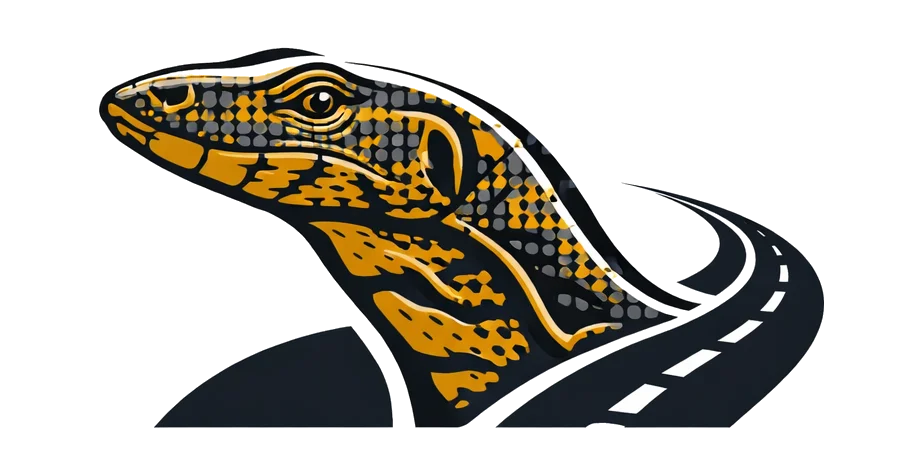
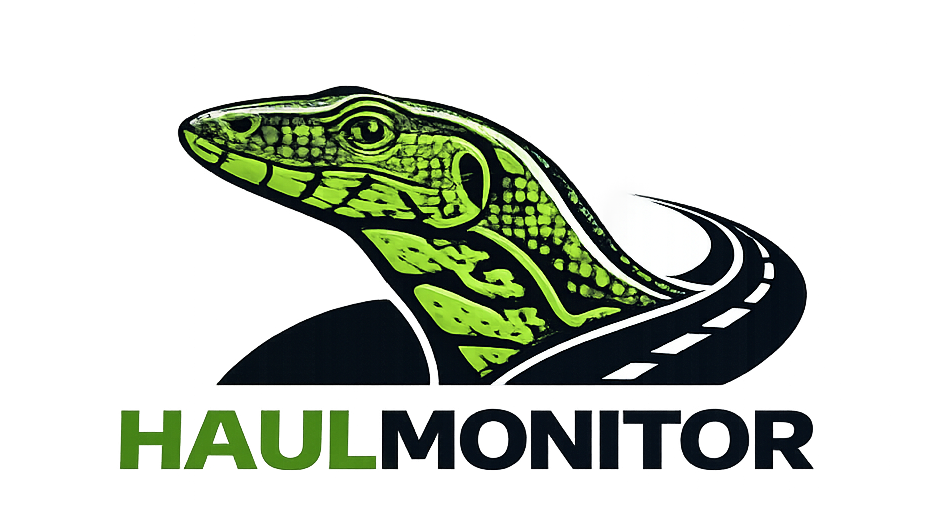
pcmiler NaN fix 3

diff --git a/src/components/HaulMonitorLogo.jsx b/src/components/HaulMonitorLogo.jsx
@@ -1,79 +1,24 @@
 export const HaulMonitorLogo = ({ size = 'medium', showText = true, variant = 'horizontal' }) => {
   const sizes = {
-    small: { img: 40, haul: 20, monitor: 20 },
-    medium: { img: 60, haul: 32, monitor: 32 },
-    large: { img: 80, haul: 48, monitor: 48 },
-    xlarge: { img: 100, haul: 64, monitor: 64 }
+    small: { img: 40 },
+    medium: { img: 60 },
+    large: { img: 80 },
+    xlarge: { img: 100 }
   };
 
   const currentSize = sizes[size] || sizes.medium;
 
-  // Brand colors matching the logo
-  const colors = {
-    haul: '#D89F38',      // Golden amber from monitor scales
-    monitor: '#2C3744'    // Charcoal from lizard body
-  };
-
-  // If variant is 'full', use the full logo PNG with text
-  if (variant === 'full') {
-    return (
-      <img 
-        src="/haul-monitor-full.png" 
-        alt="Haul Monitor"
-        style={{
-          height: `${currentSize.img * 1.2}px`,
-          width: 'auto',
-          objectFit: 'contain'
-        }}
-      />
-    );
-  }
-
+  // New logo already includes "HAULMONITOR" text, so all variants use the same image
   return (
-    <div style={{
-      display: 'flex',
-      alignItems: 'center',
-      gap: size === 'small' ? '8px' : '12px'
-    }}>
-      {/* Monitor Lizard Icon Only */}
-      <img 
-        src="/haul-monitor-icon.png" 
-        alt="Haul Monitor"
-        style={{
-          height: `${currentSize.img}px`,
-          width: 'auto',
-          objectFit: 'contain'
-        }}
-      />
-      
-      {/* Brand Text */}
-      {showText && (
-        <div style={{
-          display: 'flex',
-          alignItems: 'baseline',
-          gap: '4px'
-        }}>
-          <span style={{
-            fontSize: `${currentSize.haul}px`,
-            fontWeight: 900,
-            color: colors.haul,
-            letterSpacing: '-0.5px',
-            fontFamily: 'Arial, sans-serif'
-          }}>
-            HAUL
-          </span>
-          <span style={{
-            fontSize: `${currentSize.monitor}px`,
-            fontWeight: 900,
-            color: colors.monitor,
-            letterSpacing: '-0.5px',
-            fontFamily: 'Arial, sans-serif'
-          }}>
-            MONITOR
-          </span>
-        </div>
-      )}
-    </div>
+    <img
+      src="/haul-monitor-full.png"
+      alt="Haul Monitor"
+      style={{
+        height: `${currentSize.img}px`,
+        width: 'auto',
+        objectFit: 'contain'
+      }}
+    />
   );
 };
 

diff --git a/src/utils/notificationService.js b/src/utils/notificationService.js
@@ -268,7 +268,7 @@ const buildEmailHtml = (title, fields) => {
             <table role="presentation" style="width: 600px; border-collapse: collapse; background-color: #ffffff; border-radius: 8px; box-shadow: 0 2px 8px rgba(0,0,0,0.1);">
               <!-- Header -->
               <tr>
-                <td style="padding: 32px; background: linear-gradient(135deg, #D89F38 0%, #E8B55E 100%); border-radius: 8px 8px 0 0;">
+                <td style="padding: 32px; background: linear-gradient(135deg, #008b00 0%, #00a300 100%); border-radius: 8px 8px 0 0;">
                   <h1 style="margin: 0; color: #ffffff; font-size: 24px; font-weight: 900;">
                     🦎 Haul Monitor
                   </h1>
@@ -289,7 +289,7 @@ const buildEmailHtml = (title, fields) => {
                           <strong style="color: #6B7280; font-size: 14px;">${field.label}:</strong>
                         </td>
                         <td style="padding: 12px 0; border-bottom: 1px solid #E5E7EB; text-align: right;">
-                          <span style="color: ${field.highlight ? '#D89F38' : '#2C3744'}; font-size: 16px; font-weight: ${field.highlight ? '700' : '600'};">
+                          <span style="color: ${field.highlight ? '#008b00' : '#2C3744'}; font-size: 16px; font-weight: ${field.highlight ? '700' : '600'};">
                             ${field.value}
                           </span>
                         </td>
@@ -298,7 +298,7 @@ const buildEmailHtml = (title, fields) => {
                   </table>
                   
                   <div style="margin-top: 32px; text-align: center;">
-                    <a href="https://haulmonitor.cloud" style="display: inline-block; padding: 14px 32px; background-color: #D89F38; color: #ffffff; text-decoration: none; border-radius: 8px; font-weight: 700; font-size: 16px;">
+                    <a href="https://haulmonitor.cloud" style="display: inline-block; padding: 14px 32px; background-color: #008b00; color: #ffffff; text-decoration: none; border-radius: 8px; font-weight: 700; font-size: 16px;">
                       View in Haul Monitor
                     </a>
                   </div>

diff --git a/src/utils/routeHomeMatching.js b/src/utils/routeHomeMatching.js
@@ -11,8 +11,13 @@
 import { getRouteWithCorridor, isPointInCorridor } from './routeCorridorService';
 import { getDrivingDistance } from './pcMilerClient';
 
-// Haversine formula to calculate distance between two points
-export const calculateDistance = (lat1, lng1, lat2, lng2) => {
+// Road distance correction factor for Haversine estimates.
+// Driving distances are typically 1.2-1.5x straight-line distance.
+// 1.35 is a good approximation for the US Southeast road network.
+const HAVERSINE_ROAD_FACTOR = 1.35;
+
+// Haversine formula to calculate straight-line distance between two points
+const haversineDistance = (lat1, lng1, lat2, lng2) => {
   const R = 3959; // Radius of Earth in miles
   const dLat = (lat2 - lat1) * Math.PI / 180;
   const dLng = (lng2 - lng1) * Math.PI / 180;
@@ -21,6 +26,11 @@ export const calculateDistance = (lat1, lng1, lat2, lng2) => {
     Math.sin(dLng/2) * Math.sin(dLng/2);
   const c = 2 * Math.atan2(Math.sqrt(a), Math.sqrt(1-a));
   return R * c;
+};
+
+// Estimated driving distance using Haversine with road correction factor
+export const calculateDistance = (lat1, lng1, lat2, lng2) => {
+  return haversineDistance(lat1, lng1, lat2, lng2) * HAVERSINE_ROAD_FACTOR;
 };
 
 // Calculate bearing (direction) between two points
@@ -392,7 +402,7 @@ export const getRouteMapMarkers = (datumPoint, fleetHome, topBackhauls) => {
       label: `${index + 1}P`,
       title: `#${index + 1} Pickup: ${load.pickup_city}, ${load.pickup_state}`,
       loadNumber: index + 1,
-      color: '#D89F38' // Golden amber
+      color: '#008b00' // Golden amber
     });
 
     // Delivery marker

diff --git a/src/components/OpenRequests.jsx b/src/components/OpenRequests.jsx
@@ -534,7 +534,7 @@ export const OpenRequests = ({ onMenuNavigate, onNavigateToSettings }) => {
                       <span><strong>B</strong> = Fleet Home</span>
                     </div>
                     <div style={{ display: 'flex', alignItems: 'center', gap: '8px' }}>
-                      <div style={{ width: '16px', height: '16px', borderRadius: '50%', background: '#D89F38', border: '2px solid white' }} />
+                      <div style={{ width: '16px', height: '16px', borderRadius: '50%', background: '#008b00', border: '2px solid white' }} />
                       <span><strong>1-10</strong> = Pickup Locations</span>
                     </div>
                     <div style={{ display: 'flex', alignItems: 'center', gap: '8px' }}>
@@ -543,7 +543,7 @@ export const OpenRequests = ({ onMenuNavigate, onNavigateToSettings }) => {
                     </div>
                     {routeData?.corridor && (
                       <div style={{ display: 'flex', alignItems: 'center', gap: '8px' }}>
-                        <div style={{ width: '20px', height: '12px', background: 'rgba(216, 159, 56, 0.15)', border: '2px dashed #D89F38', borderRadius: '2px' }} />
+                        <div style={{ width: '20px', height: '12px', background: 'rgba(0, 139, 0, 0.15)', border: '2px dashed #008b00', borderRadius: '2px' }} />
                         <span><strong>Search Corridor</strong> = 50-mile buffer along route</span>
                       </div>
                     )}

diff --git a/src/contexts/ThemeContext.jsx b/src/contexts/ThemeContext.jsx
@@ -40,9 +40,9 @@ export const ThemeProvider = ({ children }) => {
       accent: 'rgba(94, 160, 219, 0.3)'
     },
     accent: {
-      primary: '#D89F38',      // Haul Monitor golden amber
-      secondary: '#E8B55E',    // Lighter amber
-      tertiary: '#C08920',     // Darker amber
+      primary: '#008b00',      // Haul Monitor green
+      secondary: '#00a300',    // Lighter green
+      tertiary: '#007200',     // Darker green
       blue: '#5EA0DB',         // Keep blue for certain UI elements
       charcoal: '#2C3744',     // Haul Monitor charcoal
       success: '#10b981',
@@ -72,9 +72,9 @@ export const ThemeProvider = ({ children }) => {
       accent: '#CBD5E0'             // Medium border
     },
     accent: {
-      primary: '#D89F38',           // Haul Monitor golden amber (primary brand)
-      secondary: '#E8B55E',         // Lighter amber (hover states)
-      tertiary: '#C08920',          // Darker amber (active states)
+      primary: '#008b00',           // Haul Monitor green (primary brand)
+      secondary: '#00a300',         // Lighter green (hover states)
+      tertiary: '#007200',          // Darker green (active states)
       blue: '#5EA0DB',              // Keep blue for certain UI elements
       charcoal: '#2C3744',          // Haul Monitor charcoal
       success: '#48BB78',           // Green

diff --git a/src/components/RouteHomeMap.jsx b/src/components/RouteHomeMap.jsx
@@ -90,9 +90,9 @@ export const RouteHomeMap = ({ datumPoint, fleetHome, backhauls, selectedLoadId,
 
   // Corridor GeoJSON style
   const corridorStyle = {
-    fillColor: '#D89F38',
+    fillColor: '#008b00',
     fillOpacity: 0.15,
-    color: '#D89F38',
+    color: '#008b00',
     weight: 2,
     opacity: 0.5,
     dashArray: '8 8'
@@ -145,8 +145,8 @@ export const RouteHomeMap = ({ datumPoint, fleetHome, backhauls, selectedLoadId,
         style={{ width: '100%', height: '100%' }}
       >
         <TileLayer
-          url="/api/pcmiler/tile?x={x}&y={y}&z={z}&style=Modern"
-          attribution="&copy; Trimble Maps"
+          url="https://{s}.tile.openstreetmap.org/{z}/{x}/{y}.png"
+          attribution='&copy; <a href="https://www.openstreetmap.org/copyright">OpenStreetMap</a>'
         />
 
         <FitBounds bounds={boundsPoints} initialFitDone={null} />
@@ -209,7 +209,7 @@ export const RouteHomeMap = ({ datumPoint, fleetHome, backhauls, selectedLoadId,
               <Marker
                 position={[load.pickup_lat, load.pickup_lng]}
                 icon={createCircleIcon(
-                  isSelected ? '#F59E0B' : '#D89F38',
+                  isSelected ? '#00a300' : '#008b00',
                   String(loadNum),
                   pickupSize
                 )}

diff --git a/src/components/RouteMap.jsx b/src/components/RouteMap.jsx
@@ -156,8 +156,13 @@ export const RouteMap = ({ route, backhaul = null, showComparison = false }) => 
 
   if (!route) return null;
 
-  // Choose tile style based on theme
-  const tileStyle = theme === 'dark' ? 'Darkness' : 'Modern';
+  // OSM tile URLs — free, no API key needed
+  const tileUrl = theme === 'dark'
+    ? 'https://{s}.basemaps.cartocdn.com/dark_all/{z}/{x}/{y}{r}.png'
+    : 'https://{s}.tile.openstreetmap.org/{z}/{x}/{y}.png';
+  const tileAttribution = theme === 'dark'
+    ? '&copy; <a href="https://www.openstreetmap.org/copyright">OSM</a> &copy; <a href="https://carto.com/">CARTO</a>'
+    : '&copy; <a href="https://www.openstreetmap.org/copyright">OpenStreetMap</a>';
 
   const routeLineStyle = {
     color: colors.accent.primary,
@@ -187,8 +192,8 @@ export const RouteMap = ({ route, backhaul = null, showComparison = false }) => 
         scrollWheelZoom={true}
       >
         <TileLayer
-          url={`/api/pcmiler/tile?x={x}&y={y}&z={z}&style=${tileStyle}`}
-          attribution="&copy; Trimble Maps"
+          url={tileUrl}
+          attribution={tileAttribution}
         />
 
         <FitBounds points={boundsPoints} />

diff --git a/src/components/ImportedLoads.jsx b/src/components/ImportedLoads.jsx
@@ -255,7 +255,7 @@ export const ImportedLoads = ({ onMenuNavigate }) => {
   const getStatusBg = (status) => {
     switch (status) {
       case 'available': return 'rgba(16, 185, 129, 0.1)';
-      case 'contacted': return 'rgba(216, 159, 56, 0.1)';
+      case 'contacted': return 'rgba(0, 139, 0, 0.1)';
       case 'booked': return 'rgba(59, 130, 246, 0.1)';
       case 'dismissed': return 'rgba(107, 114, 128, 0.1)';
       default: return colors.background.secondary;
@@ -323,7 +323,7 @@ export const ImportedLoads = ({ onMenuNavigate }) => {
           alignItems: 'center',
           justifyContent: 'space-between',
           padding: '16px 20px',
-          background: 'linear-gradient(135deg, rgba(216, 159, 56, 0.15) 0%, rgba(184, 134, 11, 0.15) 100%)',
+          background: 'linear-gradient(135deg, rgba(0, 139, 0, 0.15) 0%, rgba(0, 114, 0, 0.15) 100%)',
           border: `2px solid ${colors.accent.primary}`,
           borderRadius: '12px',
           marginBottom: '20px'

diff --git a/api/cron/refresh-requests.js b/api/cron/refresh-requests.js
@@ -31,6 +31,8 @@ const supabase = createClient(
 // MATCHING ALGORITHM (adapted from routeHomeMatching.js)
 // ============================================
 
+const HAVERSINE_ROAD_FACTOR = 1.35;
+
 const calculateDistance = (lat1, lng1, lat2, lng2) => {
   const R = 3959; // Radius of Earth in miles
   const dLat = (lat2 - lat1) * Math.PI / 180;
@@ -39,7 +41,7 @@ const calculateDistance = (lat1, lng1, lat2, lng2) => {
     Math.cos(lat1 * Math.PI / 180) * Math.cos(lat2 * Math.PI / 180) *
     Math.sin(dLng/2) * Math.sin(dLng/2);
   const c = 2 * Math.atan2(Math.sqrt(a), Math.sqrt(1-a));
-  return R * c;
+  return R * c * HAVERSINE_ROAD_FACTOR;
 };
 
 const isAlongRoute = (pickupLat, pickupLng, datumLat, datumLng, homeLat, homeLng, corridorWidthMiles = 100) => {
